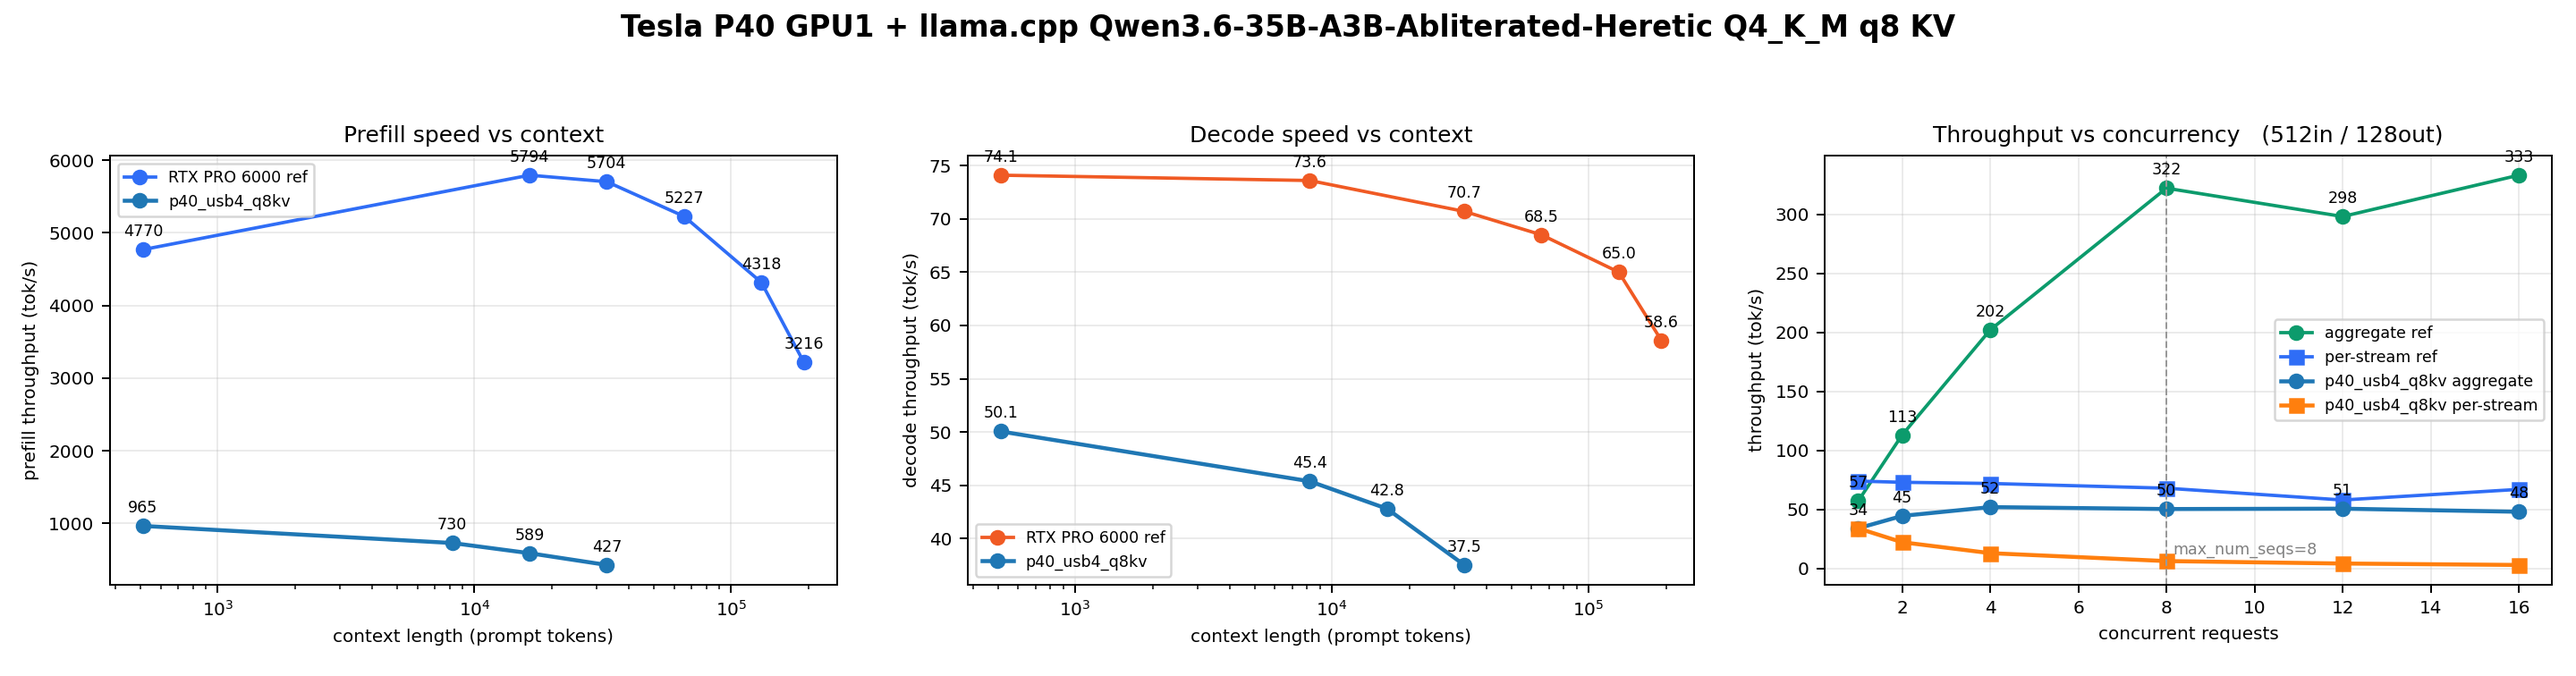
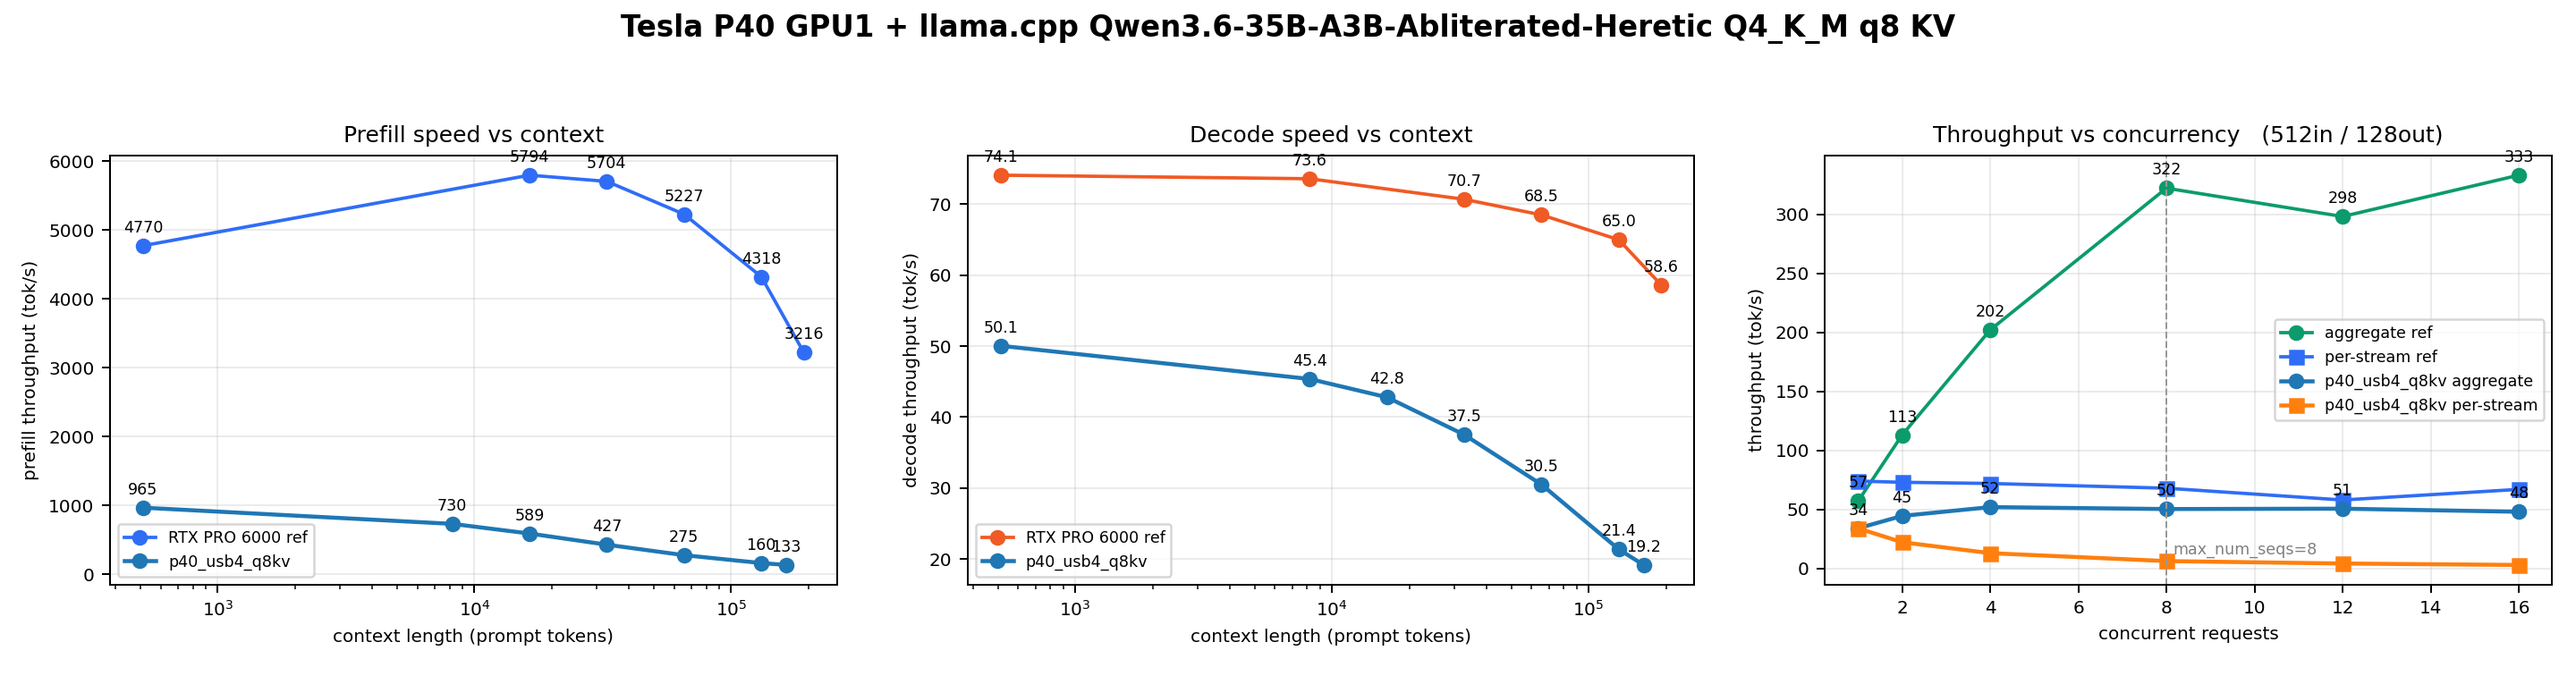
Extend context sweep to 64K/128K/160K and record the 192K OOM
Completes Phase 2 of docs/benchmark_plan.md on physical GPU1. llama.cpp is
at the same commit and build number as the 2026-07-02 run (9283/bbce619ad),
so these depths extend the existing p40_usb4_q8kv series rather than
forming a new one.

Measured (q8_0/q8_0 KV, -ngl 41, -b 2048 -ub 512 -fa 1, r=3):

  65536   274.78 tok/s prefill   30.49 tok/s decode
  131072  160.28 tok/s prefill   21.36 tok/s decode
  163840  132.62 tok/s prefill   19.16 tok/s decode   <- last successful
  196608  OOM

The 192K failure is not a KV capacity problem. Weights and KV cache both
allocate; the abort comes from ggml_cuda_pool_vmm::alloc inside
launch_fattn during prefill, i.e. the flash-attention scratch pool on an
already nearly-full card. Reproduced twice at the identical call site.
Halving the micro-batch to -ub 256 extends the run from 68s to ~16min but
aborts in the same place, so 192K is out of reach for a single P40 in this
configuration rather than out of reach at -ub 512.

No thermal or power throttling occurred: clocks_throttle_reasons.active was
0x0 in every sample, load temperature plateaued at 83-84 C, and power drew
190-220 W against the 250 W cap. These numbers are not cooling-limited.

The depth extension runs under a separate LABEL because
run_llama_bench_context.sh truncates its output CSV at start and never
reads its checkpoint back, so it cannot resume or append. plot_results.py
now strips the _long suffix so both CSVs draw as one continuous series.
[…]

diff --git a/scripts/plot_results.py b/scripts/plot_results.py
@@ -44,8 +44,11 @@ def normalize_context_csv(path):
         prompt = n_prompt if n_prompt is not None else pd.Series([512] * len(df), index=df.index)
     prompt_for_x = prompt.mask(prompt <= 0, 512)
     x = depth.mask(depth <= 0, prompt_for_x)
+    # depth-extension runs (`<label>_long_context.csv`) belong to the same
+    # measurement series as `<label>_context.csv`, so they plot as one line.
+    series = path.name.removesuffix("_context.csv").removesuffix("_long")
     out = pd.DataFrame({
-        "series": path.name.removesuffix("_context.csv"),
+        "series": series,
         "context": x,
         "speed": pd.to_numeric(df[speed_col], errors="coerce"),
         "kind": "",

diff --git a/reports/2026-08-30_p40_phase2_long_context.md b/reports/2026-08-30_p40_phase2_long_context.md
@@ -1,0 +1,209 @@
+# P40 Phase 2: Long Context Extension (64K / 128K / 160K / 192K)
+
+- Date: 2026-08-30
+- Scope: `benchmark_plan.md` Phase 2 — extend the GPU1 text-only sweep beyond 32K and record OOM as data
+- Model: `Qwen3.6-35B-A3B-Abliterated-Heretic-Q4_K_M.gguf`
[1 lines of base64/hex data omitted]
+- Model type: `qwen35moe 35B.A3B Q4_K - Medium`
+- Model `n_ctx_train`: `262144`
+- Mode: text-only, no `--mmproj`
+- llama.cpp commit: `bbce619adb409880fb6db850a1c5a5f36a4dc7b1`
+- llama.cpp build: `9283 (bbce619ad)`
+- GPU: Tesla P40, physical GPU1 via `CUDA_VISIBLE_DEVICES=1`, 22905 MiB visible
+- Config: `configs/p40_usb4_q8kv_long.env`
+
+The llama.cpp source tree and both binaries are byte-identical to the 2026-07-02 run
+(same commit, same `build_number` 9283, clean worktree), so these numbers extend the
+existing `p40_usb4_q8kv` series directly rather than forming a separate series.
+
+## Headline
+
+The single-P40 ceiling for this model at `q8_0/q8_0` KV and `-ngl 41` is **163840 tokens**.
+`196608` fails, and it fails during prefill in the flash-attention scratch allocation —
+not at KV cache allocation.
+
+Decode throughput holds up far worse on the P40 than on the reference card as context grows:
+the P40 retains 38% of its short-context decode rate at 160K, where the RTX PRO 6000
+reference retains 79% at 192K.
+
+## Extended Context Sweep
+
+New measurements (`REPETITIONS=3`, `PROMPT_TOKENS=512`, `GEN_TOKENS=128`, `-b 2048 -ub 512 -fa 1`):
+
+| context | prefill tok/s | stddev | decode tok/s | stddev | status |
+|---:|---:|---:|---:|---:|---|
+| 65536 | 274.78 | 0.568 | 30.49 | 0.036 | ok |
+| 131072 | 160.28 | 0.677 | 21.36 | 0.031 | ok |
+| 163840 | 132.62 | 0.086 | 19.16 | 0.029 | ok — last successful |
+| 196608 | — | — | — | — | **OOM** |
+
+Combined with the 2026-07-02 run, the full P40 series is now:
+
+| context | prefill tok/s | decode tok/s |
+|---:|---:|---:|
+| 512 | 964.54 | 50.05 |
+| 8192 | 729.59 | 45.38 |
+| 16384 | 589.16 | 42.80 |
+| 32768 | 427.15 | 37.52 |
+| 65536 | 274.78 | 30.49 |
+| 131072 | 160.28 | 21.36 |
+| 163840 | 132.62 | 19.16 |
+
+Retention relative to the 512-token measurement:
+
+| context | prefill retained | decode retained |
+|---:|---:|---:|
+| 32768 | 44.3% | 75.0% |
+| 65536 | 28.5% | 60.9% |
+| 131072 | 16.6% | 42.7% |
+| 163840 | 13.7% | 38.3% |
+
+## OOM Detail (196608)
+
+Reproduced twice, both aborting with `rc=134` at
+`ggml/src/ggml-cuda/ggml-cuda.cu:102` (`ggml_cuda_error`). The backtrace is identical
+in both runs:
+
+```text
+#3  ggml_cuda_error(...)
+#4  ggml_cuda_pool_vmm::alloc(unsigned long, unsigned long*)
+#5  launch_fattn<256, 4, 8>(...)
+#6  ggml_cuda_flash_attn_ext_tile_case<256, 256>(...)
+#7  ggml_backend_cuda_graph_compute(...)
+...
+#11 llama_context::decode(llama_batch const&)
+#12 llama_decode()
+#13 test_prompt(llama_context*, int, int, int)
+```
+
+This matters for interpretation: at 196608 the model weights and the KV cache **do**
+allocate successfully. The process runs, reaches `test_prompt`, and then exhausts VRAM
+in the CUDA VMM pool that backs the flash-attention kernel's scratch buffer. The failure
+is a prefill-time working-set problem sitting on top of an already nearly-full card, not
+a KV capacity problem.
+
+Sampled VRAM during each run (`nvidia-smi`, 10-90s interval — sampled, not a true peak):
+
+| context | observed VRAM | note |
+|---:|---:|---|
+| 65536 | ~21383 MiB | steady |
+| 131072 | ~22037 MiB | steady |
+| 163840 | 22461 → 22725 MiB | grows during run, completes |
+| 196608 (`-ub 512`) | → 22901 MiB | OOM after ~68 s |
+| 196608 (`-ub 256`) | → 22889 MiB | OOM after ~16 min |
+
+In every long run the VMM pool grows monotonically toward the 22905 MiB limit as the
+prefill proceeds.
+
+### Does a smaller ubatch reach 192K?
+
+No. Because the failing allocation is the flash-attention scratch buffer, `-ub 256` was
+tested as a variant (all other parameters unchanged). It survives far longer — roughly
+16 minutes versus 68 seconds — but aborts at the identical call site with the pool at
+22889 MiB. Halving the micro-batch delays the exhaustion; it does not avoid it.
+
+`196608` is therefore recorded as out of reach for a single P40 in this configuration,
+not merely out of reach at `-ub 512`.
+
+## Comparison vs RTX PRO 6000 Reference
+
+Reference values are the handoff figures already encoded in `scripts/plot_results.py`.
+
+| Metric | RTX PRO 6000 reference | P40 measured | Ratio |
+|---|---:|---:|---:|
+| prefill @ 512 | 4770 tok/s | 964.54 tok/s | 20.2% |
+| prefill @ 32K | 5704 tok/s | 427.15 tok/s | 7.5% |
+| prefill @ 64K | 5227 tok/s | 274.78 tok/s | 5.3% |
+| prefill @ 128K | 4318 tok/s | 160.28 tok/s | 3.7% |
+| decode @ 512 | 74.1 tok/s | 50.05 tok/s | 67.5% |
+| decode @ 32K | 70.7 tok/s | 37.52 tok/s | 53.1% |
+| decode @ 64K | 68.5 tok/s | 30.49 tok/s | 44.5% |
+| decode @ 128K | 65.0 tok/s | 21.36 tok/s | 32.9% |
+| decode @ 160K | not in reference set | 19.16 tok/s | n/a |
+| decode @ 192K | 58.6 tok/s | OOM | n/a |
+| aggregate @ 8 concurrent | 322 tok/s | 50.35 tok/s | 16% |
+| per-stream @ 8 concurrent | about 40 tok/s | 6.29 tok/s | 16% |
+| max measured context | 256K | 163840 | 64% |
+
+The reference has no 163840 data point, so no ratio is given for that row rather than
+interpolating one.
+
+The gap widens with context on both axes, and it widens faster for prefill than for
+decode. Prefill falls from a fifth of the reference at short context to under a
+twenty-fifth at 128K.
+
+## Thermals
+
+Relevant because this run was the first after the GPU1 cooling fix. Sampled throughout
+all long runs:
+
+- idle before the run: 36 °C (GPU1), 39 °C (GPU0)
+- sustained load: 62 → 84 °C, plateauing at 83-84 °C
+- power draw under load: 190-220 W against the 250 W cap
+- `clocks_throttle_reasons.active` was `0x0000000000000000` in **every** sample across
+  all runs, including the ~16 minute 192K attempt
+
+No thermal or power throttling occurred. The measurements above are not
+cooling-limited.
+
+## Wall Clock
+
+| Run | Wall clock |
+|---|---:|
+| scripted sweep 65536 | 201 s |
+| scripted sweep 131072 | 521 s |
+| scripted sweep 196608 (OOM) | 68 s |
+| scripted sweep total | 790 s |
+| 163840 | ~749 s |
+| 196608 `-ub 256` variant (OOM) | ~975 s |
+| `llama-cpp-8080.service` downtime | 47 min 19 s (17:19:48 → 18:07:08 JST) |
+
+## Method Note
+
+`65536`, `131072`, and `196608` were produced by
+`scripts/run_llama_bench_context.sh configs/p40_usb4_q8kv_long.env`.
+
+`163840` was added afterwards as a bisection point between the last success (131072) and
+the first failure (196608). It was run as a direct `llama-bench` invocation with
+byte-identical arguments and its two CSV rows were appended to
+`results/raw/p40_usb4_q8kv_long_context.csv`. The config file has since been updated to
+include `163840`, so a single re-run of the config now reproduces the whole table.
+
+`scripts/run_llama_bench_context.sh` truncates its output CSV at start and does not
+resume from its checkpoint, so the extension was run under a separate `LABEL`
+(`p40_usb4_q8kv_long`) to leave the 2026-07-02 CSV untouched. `scripts/plot_results.py`
+strips the `_long` suffix so both files draw as one continuous series.
+
+## Caveats
+
+- Text-only. Vision projector costs are excluded; the normal service uses `--mmproj`.
+- `llama-bench` measurements, not HTTP endpoint measurements.
+- Concurrency rows in the comparison table are carried over unchanged from 2026-07-02
+  and were not re-measured; they remain tuned-server throughput, not strict cold-prompt
+  throughput.
+- VRAM figures are `nvidia-smi` samples taken at 10-90 s intervals, so they under-report
+  true peaks.
+- The ceiling is bracketed, not resolved to the token: `163840` succeeds and `196608`
+  fails. Nothing between the two was tested.
+
+## Artifacts
+
+| Artifact | Path |
+|---|---|
+| extended context CSV | `results/raw/p40_usb4_q8kv_long_context.csv` |
+| extended context log | `results/raw/p40_usb4_q8kv_long_context.log` |
+| extended context checkpoint | `results/processed/p40_usb4_q8kv_long_context_checkpoint.json` |
+| config | `configs/p40_usb4_q8kv_long.env` |
+| plot | `results/figures/p40_long_context_summary.png` |
+| prior run report | `reports/2026-07-02_p40_llamacpp_qwen_longctx.md` |
+
+## Follow-ups
+
+- Phase 2 is complete for the single-GPU case. Reaching 192K or beyond requires the dual
+  P40 layer split (`configs/p40_dual_layer_q8kv.env`), which needs GPU0 — currently held
+  by ollama (about 19.7 GB).
+- `configs/p40_oculink_f16kv.env`, `configs/p40_oculink_q8kv.env`, and
+  `configs/p40_oculink_q8k_q4v.env` remain unmeasured. `q8_0` K with `q4_0` V would be
+  the cheapest way to test whether a smaller V cache moves the ceiling.
+- `scripts/run_llama_bench_context.sh` writes a checkpoint but never reads it, and
+  truncates the output CSV on every run. Resume is not actually implemented.

diff --git a/docs/benchmark_plan.md b/docs/benchmark_plan.md
@@ -4,22 +4,24 @@ Measured GPU1 text-only results are recorded in:
 
 - `docs/2026-07-02_reproduction_p40_gpu1_text_only.md`
 - `reports/2026-07-02_p40_llamacpp_qwen_longctx.md`
+- `reports/2026-08-30_p40_phase2_long_context.md` (Phase 2 extension)
 
-- Phase 1: Record environment, model metadata, and OCuLink P40 single-GPU context sweeps at 8K, 16K, and 32K.
-- Phase 2: Extend to 64K, 128K, and 192K where VRAM permits. Record OOM as data.
-- Phase 3: Measure `llama-server` throughput at concurrency 1, 2, 4, 8, 12, and 16.
-- Phase 4: Generate figures and a short report comparing P40 results to the RTX PRO 6000 reference values from the handoff memo.
+- Phase 1: **done** (2026-07-02, GPU1/USB4 rather than OCuLink). Environment, model metadata, and single-GPU context sweeps at 8K, 16K, and 32K.
+- Phase 2: **done** (2026-08-30). Extended to 64K, 128K, and 160K. 192K OOMs and is recorded as data; the single-P40 ceiling at `q8_0/q8_0` KV is 163840.
+- Phase 3: **done** (2026-07-02). `llama-server` throughput at concurrency 1, 2, 4, 8, 12, and 16.
+- Phase 4: **done**. Figures and reports comparing P40 results to the RTX PRO 6000 reference values from the handoff memo.
+- Remaining: OCuLink configs (`f16kv`, `q8kv`, `q8k_q4v`) and the dual P40 layer split are still unmeasured. Reaching 192K needs the dual-GPU split, which requires GPU0.
 
-Default comparison rows:
+Comparison rows (filled 2026-08-30; see `reports/2026-08-30_p40_phase2_long_context.md`):
 
 | Metric | RTX PRO 6000 reference | P40 measured | Ratio |
 |---|---:|---:|---:|
-| prefill peak | 5700-6000 tok/s | TBD | TBD |
-| decode short context | 74 tok/s | TBD | TBD |
-| decode @ 32K | TBD | TBD | TBD |
-| decode @ 64K | TBD | TBD | TBD |
-| decode @ 128K | TBD | TBD | TBD |
-| decode @ 192K | 59 tok/s | TBD | TBD |
-| aggregate @ 8 concurrent | 322 tok/s | TBD | TBD |
-| per-stream @ 8 concurrent | about 40 tok/s | TBD | TBD |
-| max practical context | 256K | TBD | TBD |
+| prefill peak | 5794 tok/s @ 16K | 964.54 tok/s @ 512 | 17% |
+| decode short context | 74.1 tok/s | 50.05 tok/s | 67.5% |
+| decode @ 32K | 70.7 tok/s | 37.52 tok/s | 53.1% |
+| decode @ 64K | 68.5 tok/s | 30.49 tok/s | 44.5% |
+| decode @ 128K | 65.0 tok/s | 21.36 tok/s | 32.9% |
+| decode @ 192K | 58.6 tok/s | OOM | n/a |
+| aggregate @ 8 concurrent | 322 tok/s | 50.35 tok/s | 16% |
+| per-stream @ 8 concurrent | about 40 tok/s | 6.29 tok/s | 16% |
+| max practical context | 256K | 163840 | 64% |

diff --git a/docs/artifacts.md b/docs/artifacts.md
@@ -10,6 +10,7 @@
 ## Configs
 
 - `configs/p40_usb4_q8kv.env`: measured GPU1 text-only q8 KV configuration.
+- `configs/p40_usb4_q8kv_long.env`: measured GPU1 depth extension (64K/128K/160K/192K). 192K is expected to OOM and is kept in the depth list so a re-run reproduces that result.
 - `configs/p40_oculink_f16kv.env`: planned OCuLink f16 KV configuration.
 - `configs/p40_oculink_q8kv.env`: planned OCuLink q8 KV configuration.
 - `configs/p40_oculink_q8k_q4v.env`: planned q8 K / q4 V configuration.
@@ -26,7 +27,8 @@
 
 ## Results
 
-- `results/raw/p40_usb4_q8kv_context.csv`: `llama-bench` context sweep.
+- `results/raw/p40_usb4_q8kv_context.csv`: `llama-bench` context sweep (512-32K, 2026-07-02).
+- `results/raw/p40_usb4_q8kv_long_context.csv`: `llama-bench` depth extension (64K-160K, 2026-08-30). Plotted as one series with the file above.
 - `results/raw/p40_usb4_q8kv_concurrency.csv`: concurrency sweep.
 - `results/figures/p40_long_context_summary.png`: final plot.
 
@@ -35,12 +37,15 @@ Ignored local artifacts:
 - `results/raw/env_20260702_initial.txt`: environment snapshot.
 - `results/raw/p40_usb4_q8kv_server.log`: benchmark server log.
 - `results/raw/p40_usb4_q8kv_context.log`: context sweep progress and stderr.
+- `results/raw/p40_usb4_q8kv_long_context.log`: depth extension progress and the 192K abort.
 - `results/processed/p40_usb4_q8kv_context_checkpoint.json`: context sweep checkpoint.
+- `results/processed/p40_usb4_q8kv_long_context_checkpoint.json`: depth extension checkpoint.
 - `results/processed/p40_usb4_q8kv_concurrency_checkpoint.json`: concurrency checkpoint.
 
 ## Reports
 
-- `reports/2026-07-02_p40_llamacpp_qwen_longctx.md`: measured result summary.
+- `reports/2026-07-02_p40_llamacpp_qwen_longctx.md`: measured result summary (Phases 1 and 3).
+- `reports/2026-08-30_p40_phase2_long_context.md`: Phase 2 depth extension, VRAM ceiling, and OOM analysis.
 
 ## License
 

diff --git a/docs/notes.md b/docs/notes.md
@@ -1,6 +1,7 @@
 # Notes
 
 - OOM is a benchmark result. Record the context length, KV type, GPU configuration, and the last successful context length.
+- Record *where* an OOM happens, not just that it happened. On a nearly-full card the abort can come from the flash-attention scratch pool during prefill rather than from KV allocation, and those two have different workarounds. Capture the llama.cpp backtrace; `run_llama_bench_context.sh` only keeps the abort line.
 - Use unique prompts or `cache_prompt=false` for concurrency testing.
 - Treat dual P40 layer split primarily as a max-context / capacity experiment unless measurements show a throughput benefit.
 - Keep raw outputs unchanged in `results/raw/`; put derived tables in `results/processed/`.

diff --git a/README.md b/README.md
@@ -49,6 +49,7 @@ python3 scripts/plot_results.py \
 - Artifact index: `docs/artifacts.md`
 - Script guide: `scripts/README.md`
 - Result report: `reports/2026-07-02_p40_llamacpp_qwen_longctx.md`
+- Long-context extension and VRAM ceiling: `reports/2026-08-30_p40_phase2_long_context.md`
 
 ## Current GPU1 Text-Only Run
 
